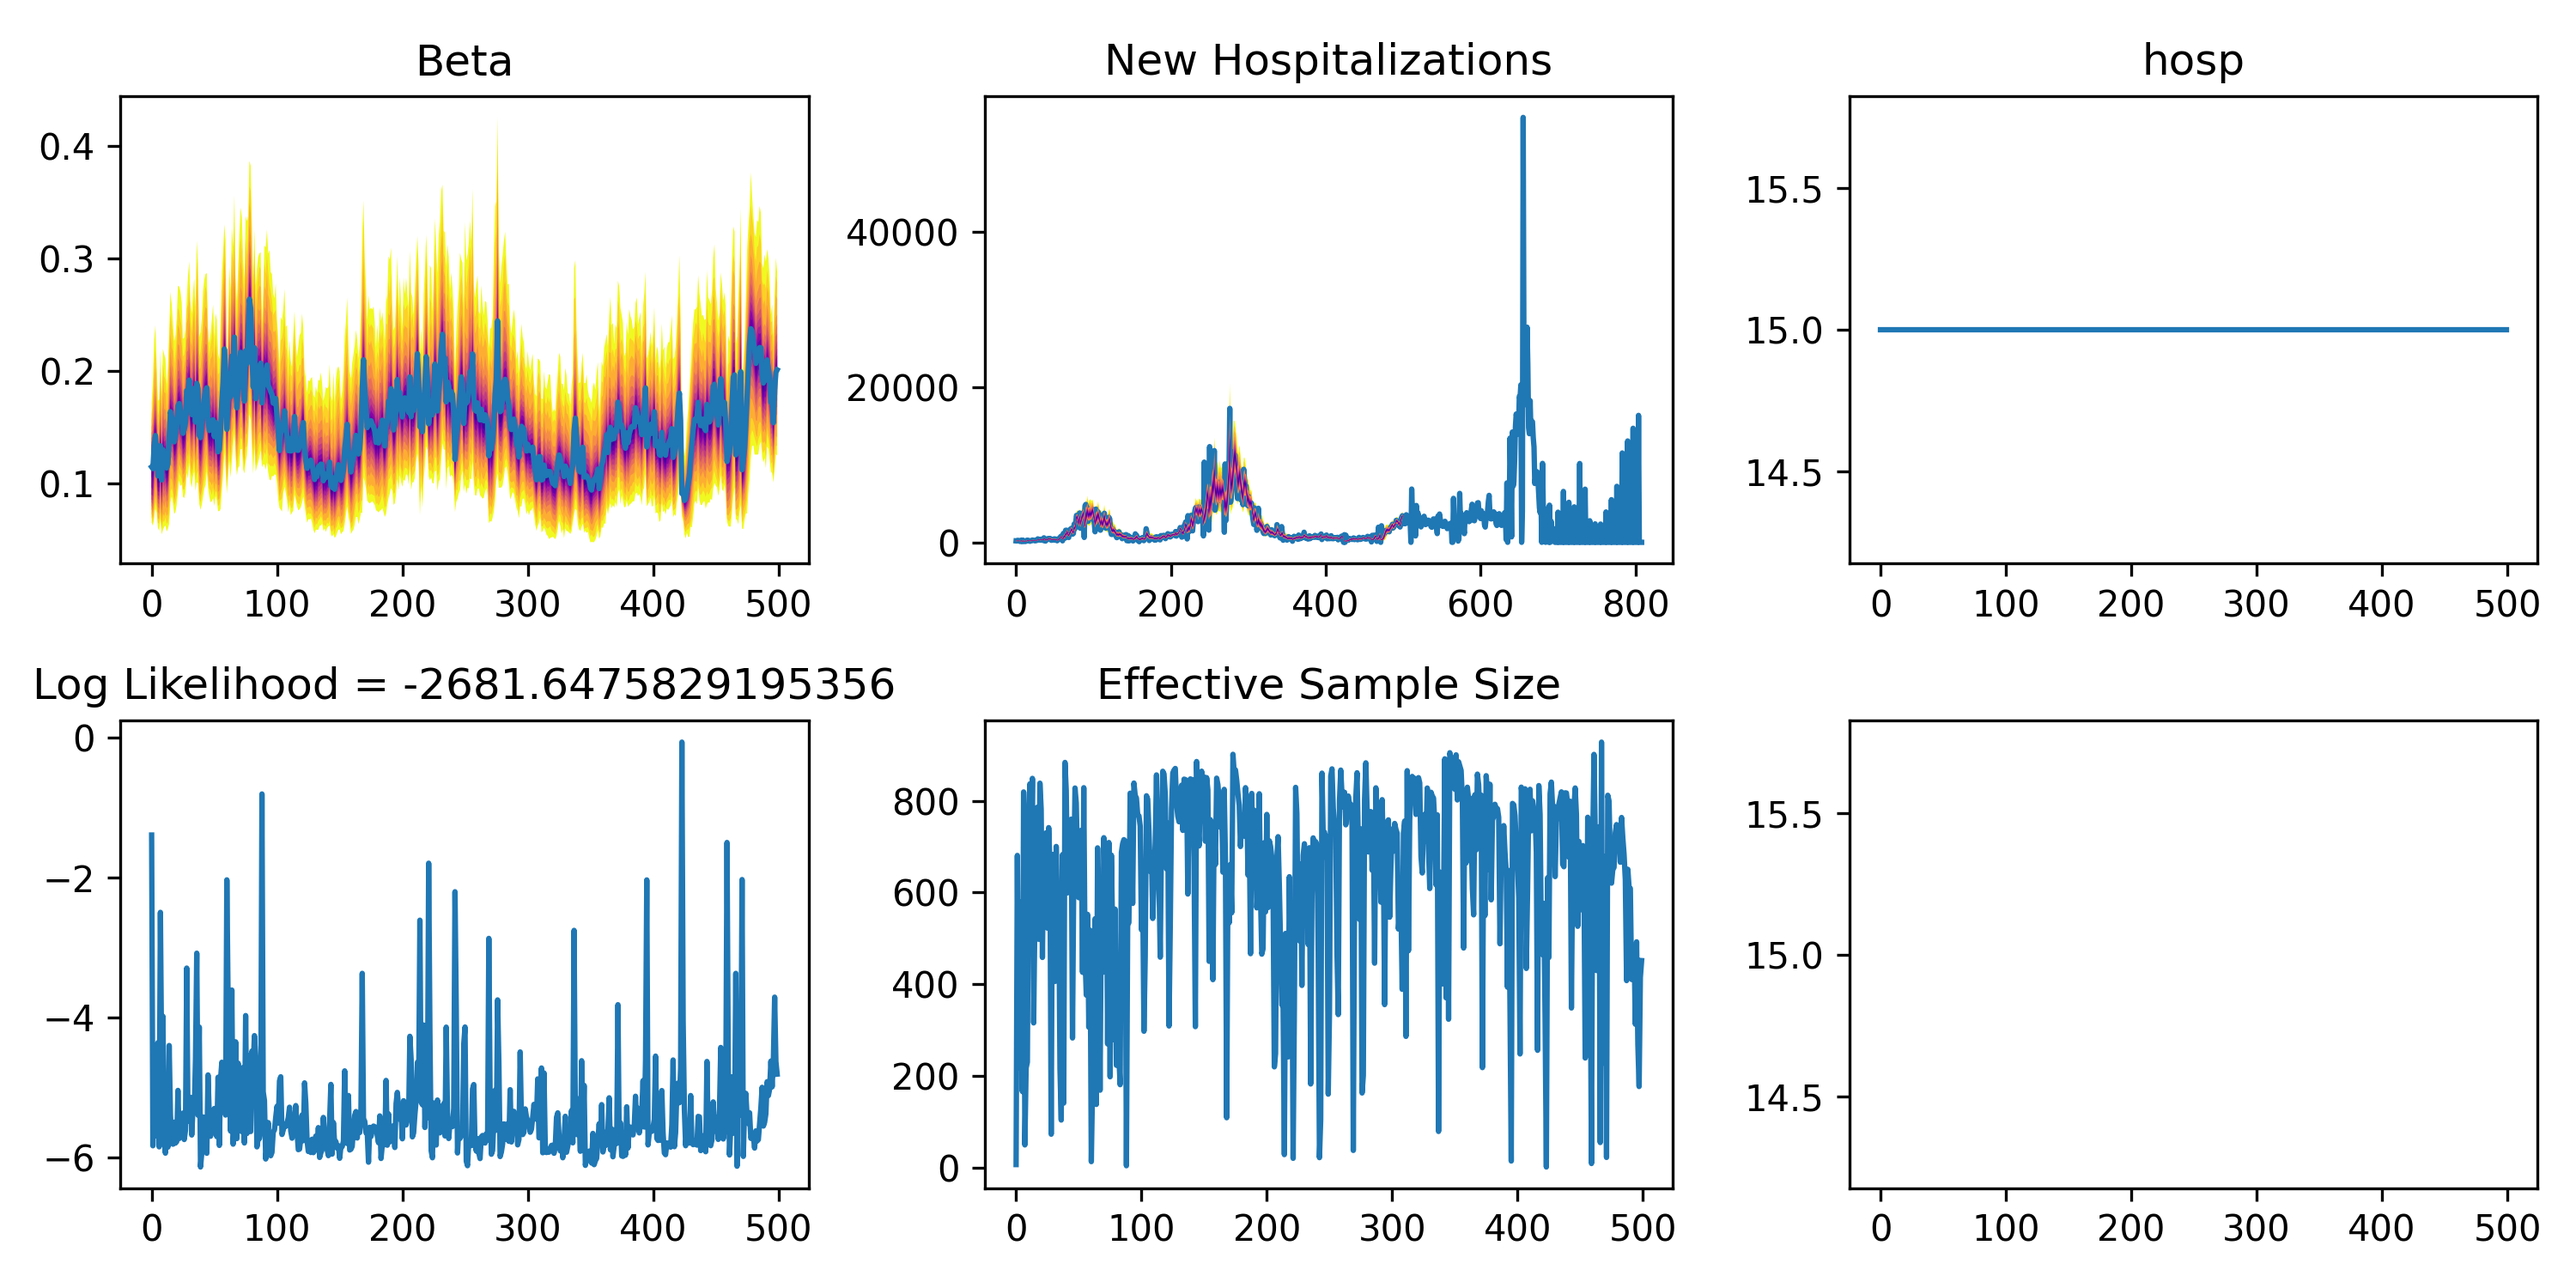
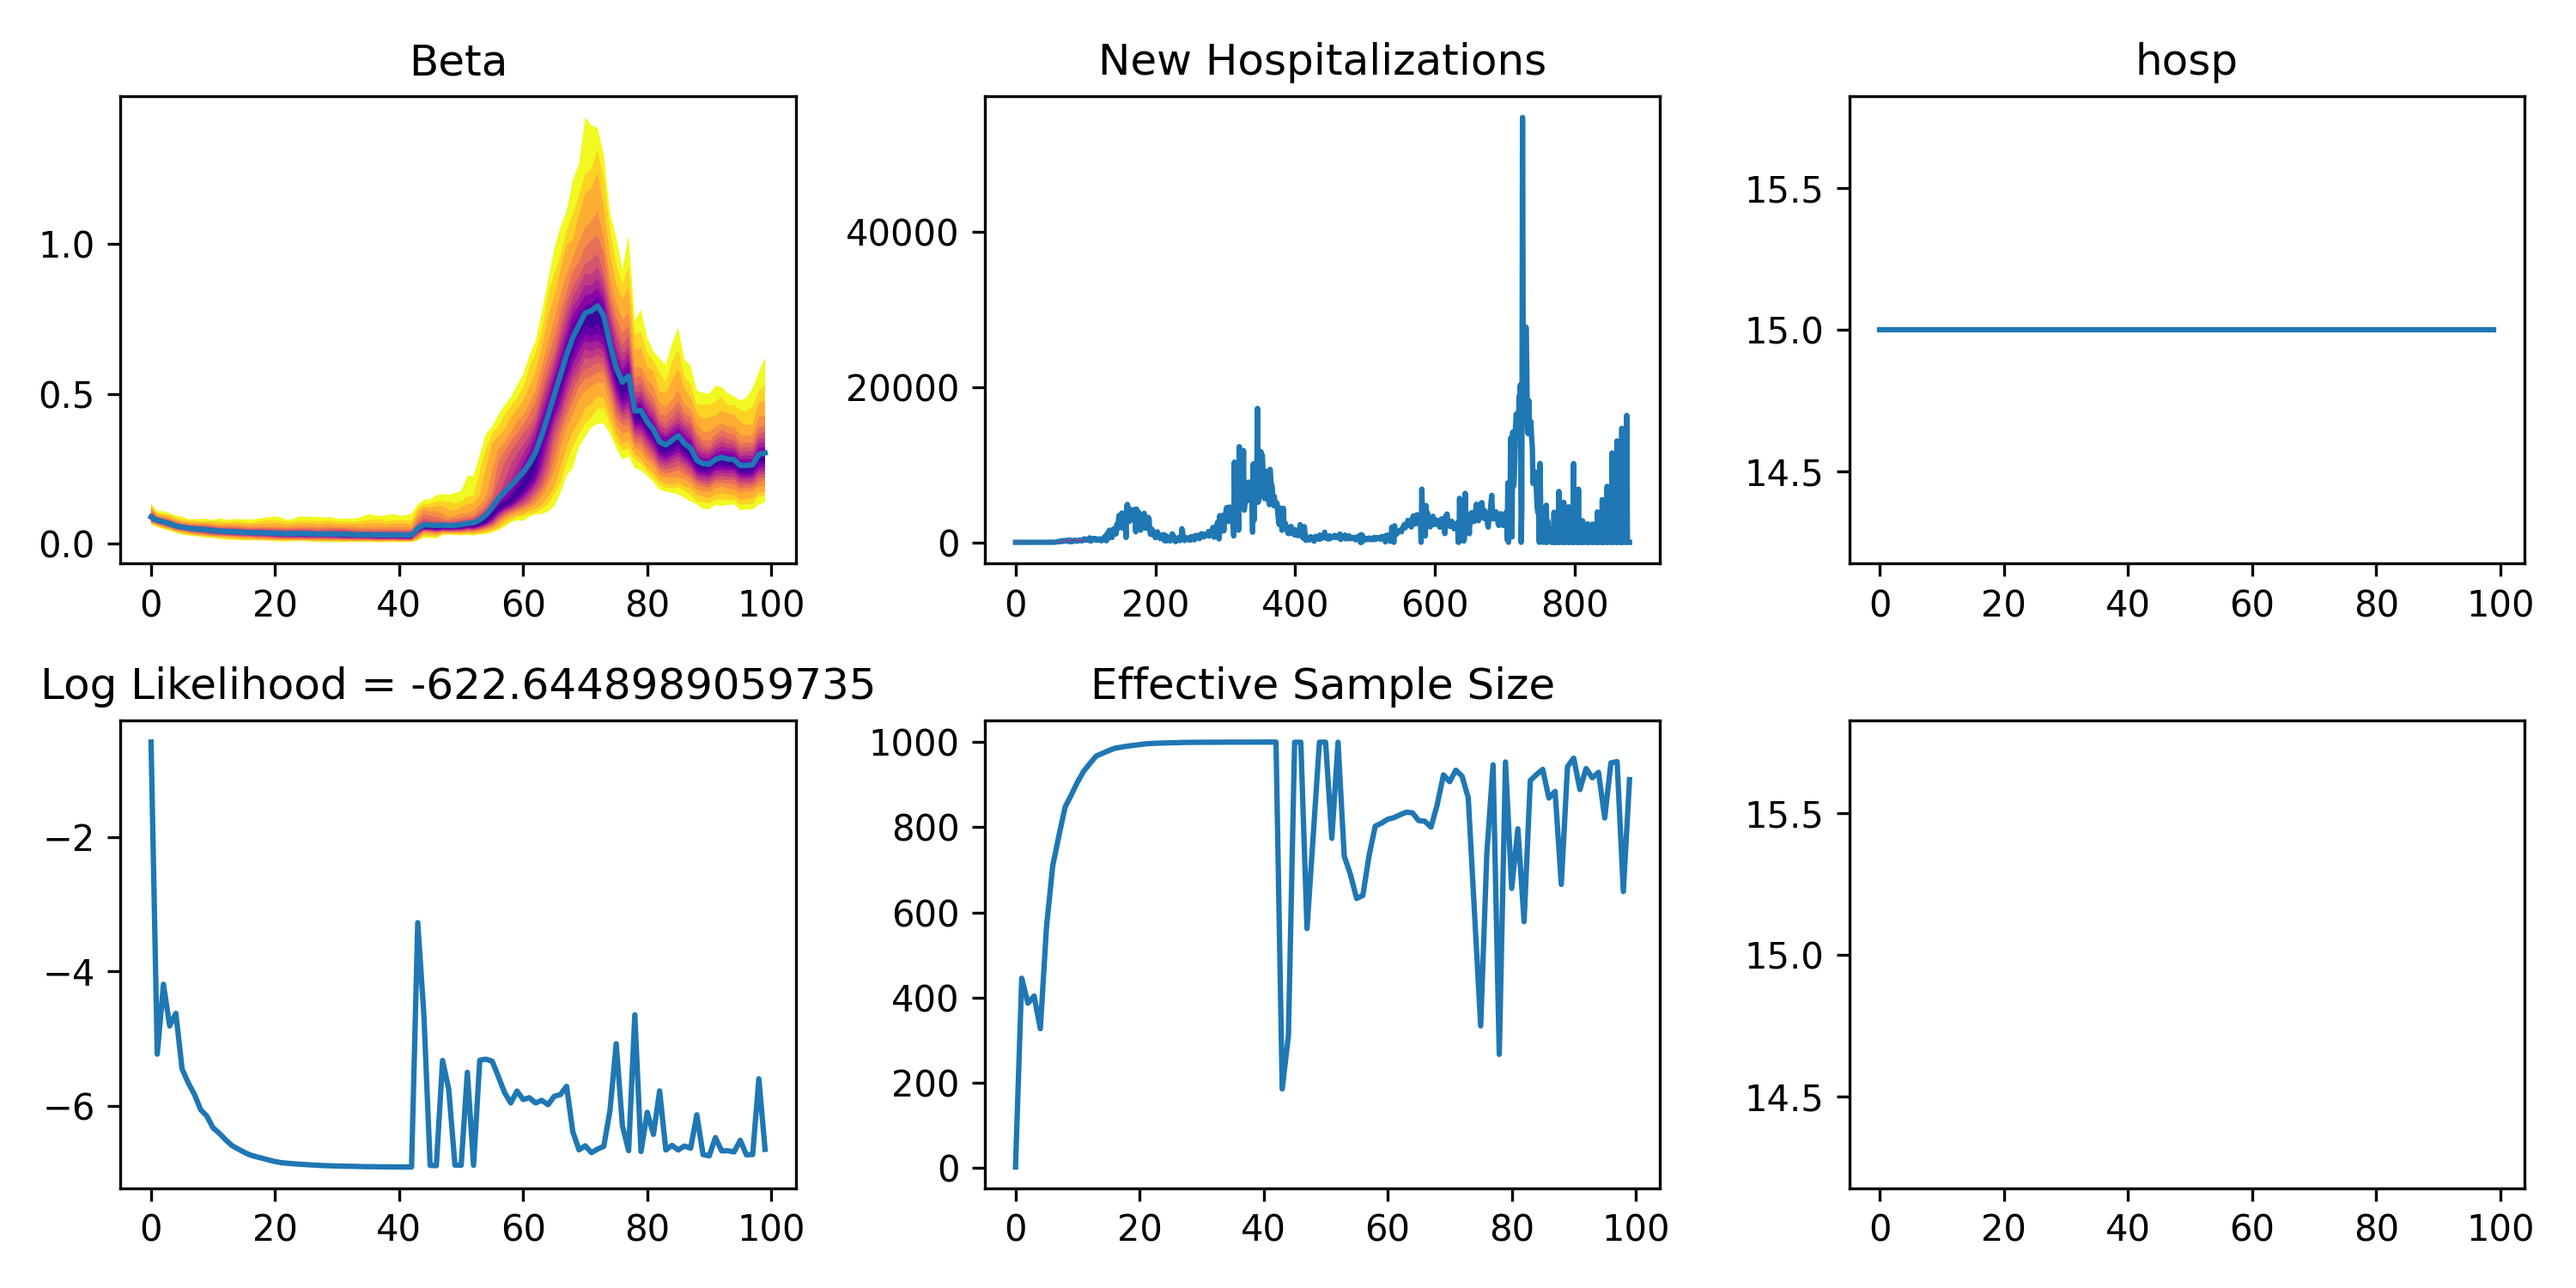
modified:   Implementations/algorithms/TimeDependentBeta.py 	modified:   Implementations/solvers/DeterministicSolvers.py 	modified:   figuresh0.1.png 	modified:   juptyer notebooks/JHU_DATA_EXTRACT.ipynb 	modified:   main.py 	modified:   utilities/Utils.py

diff --git a/Implementations/solvers/DeterministicSolvers.py b/Implementations/solvers/DeterministicSolvers.py
@@ -110,7 +110,7 @@ class EulerSolver_SEAIRH(Integrator):
 
  
 
-        dt = 1
+        dt = 1/100
 
         for particle in particleArray:
 
@@ -128,7 +128,6 @@ class EulerSolver_SEAIRH(Integrator):
 
                 d_RHS,sim_obv =self.RHS(particleArray[j])
 
-                print(particleArray[j].state)
                 particleArray[j].state += d_RHS*dt
                 if(np.any(np.isnan(particleArray[j].state))): 
                     print(f"NaN state at particle: {j}")
@@ -142,7 +141,7 @@ class EulerSolver_SEAIRH(Integrator):
 
  
 
-    def RHS(self,particle:Particle):
+    def RHS(t,particle:Particle):
 
     #params has all the parameters – beta, gamma
 
@@ -150,9 +149,9 @@ class EulerSolver_SEAIRH(Integrator):
 
  
 
-        S,E,A,I,R,H,D = particle.state #unpack the state variables
+        S,E,A,I,H,R, D = particle.state #unpack the state variables
 
-        N = S + E + A + I + R + H +D  #compute the total population
+        N = S + E + A + I + R + H + D  #compute the total population
 
         kL=0.25
 
@@ -186,5 +185,5 @@ class EulerSolver_SEAIRH(Integrator):
         dD = cH*(1-fR)*H
 
         new_I = kL*(1-fA)*E
-
         return np.array([dS,dE,dA,dI,dH,dR,dD]),new_I
+

diff --git a/Implementations/algorithms/TimeDependentBeta.py b/Implementations/algorithms/TimeDependentBeta.py
@@ -33,8 +33,9 @@ class TimeDependentAlgo(Algorithm):
                     p_params[key] = priors[key]()
 
             initial_infected = self.ctx.rng.uniform(0,self.ctx.seed_size*self.ctx.population)
-            state = np.concatenate((np.array([self.ctx.population-initial_infected,initial_infected]),[0 for _ in range(self.ctx.state_size-2)])) 
-            
+            state = np.concatenate((np.array([self.ctx.population-initial_infected]),[0 for _ in range(self.ctx.state_size-1)])) 
+            state[self.ctx.seed_loc] = initial_infected
+
             self.particles.append(Particle(param=p_params,state=state.copy(),observation=np.array([0])))    
 
 
@@ -44,7 +45,6 @@ class TimeDependentAlgo(Algorithm):
 
         data = pd.read_csv(data_path).to_numpy()
         data = np.delete(data,0,1)
-        data = data[70:]
 
 
         beta = []
@@ -58,7 +58,7 @@ class TimeDependentAlgo(Algorithm):
         state_quantiles = []
         beta_quantiles = []
 
-        while(self.ctx.clock.time < runtime): 
+        while(self.ctx.clock.time < runtime if (runtime != -1) else len(data)): 
             self.integrator.propagate(self.particles,self.ctx)
 
             # for particle in self.particles: 

diff --git a/main.py b/main.py
@@ -18,13 +18,14 @@ algo = TimeDependentAlgo(integrator = EulerSolver_SEAIRH(),
                         ctx=Context(population=7_000_000,
                                     state_size = 7,
                                     weights=np.zeros(1000),
+                                    seed_loc=3,
                                     rng=np.random.default_rng(),
                         particle_count=1000))
 
 algo.initialize(params={
-"beta":0.1,
+"beta":ESTIMATION.VARIABLE,
 "gamma":0.1,
-"std":ESTIMATION.VARIABLE,
+"std":ESTIMATION.STATIC,
 "R":0,
 "hosp":15,
 "L":90,
@@ -38,7 +39,7 @@ algo.initialize(params={
           })
 
 
-algo.run('./datasets/JHU_COVID_CASES.csv',500)
+algo.run('./datasets/JHU_COVID_CASES.csv',100)
 
 
 

diff --git a/utilities/Utils.py b/utilities/Utils.py
@@ -44,6 +44,7 @@ class Context:
     rng:random.Generator = field(default_factory=lambda: np.random.default_rng())
     seed_size: float = 0.01 #estimate of initial percentage of infected out of the total population
     state_size: int = 4 #number of state variables in the model
+    seed_loc: int = 1 #zero indexed seed location 
     population: int = 100000 #estimate of the total population 
     estimated_params: Dict[str,int] = field(default_factory=lambda: dict()) #number of estimated parameters in the model 
 
